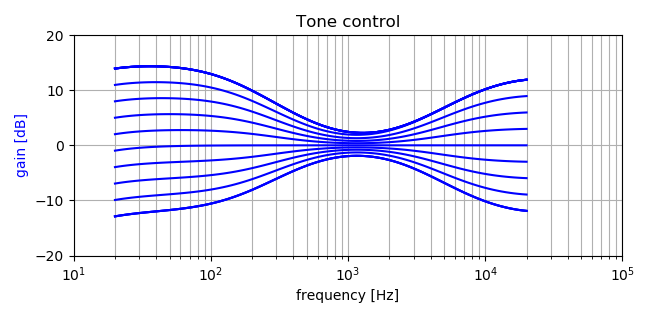
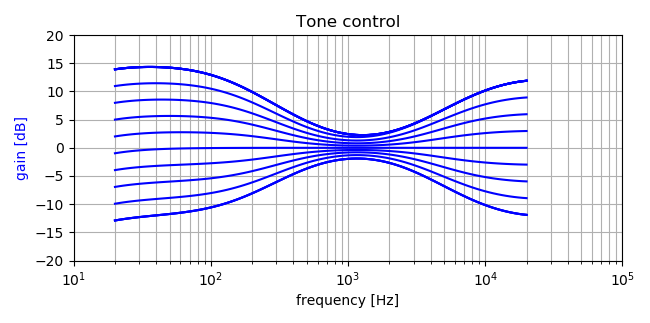
Docs

diff --git a/tools/TDA8425_shelving.py b/tools/TDA8425_shelving.py
@@ -131,7 +131,7 @@ dbt = [
 
 f = np.logspace(np.log10(20), np.log10(20000), 100)
 plt.close('all')
-fig, ax1 = plt.subplots(figsize=(6.5, 3.2))
+fig, ax1 = plt.subplots(figsize=(6.5, 3.25))
 plt.title('Tone control')
 plt.xscale('log')
 plt.xlabel('frequency [Hz]')

diff --git a/tools/TDA8425_tfilter.py b/tools/TDA8425_tfilter.py
@@ -185,7 +185,7 @@ plt.show()
 
 #%%
 
-fig, ax1 = plt.subplots(figsize=(6.5, 3.2))
+fig, ax1 = plt.subplots(figsize=(6.5, 3.25))
 plt.title('T-filter')
 plt.xscale('log')
 plt.xlabel('frequency [Hz]')
